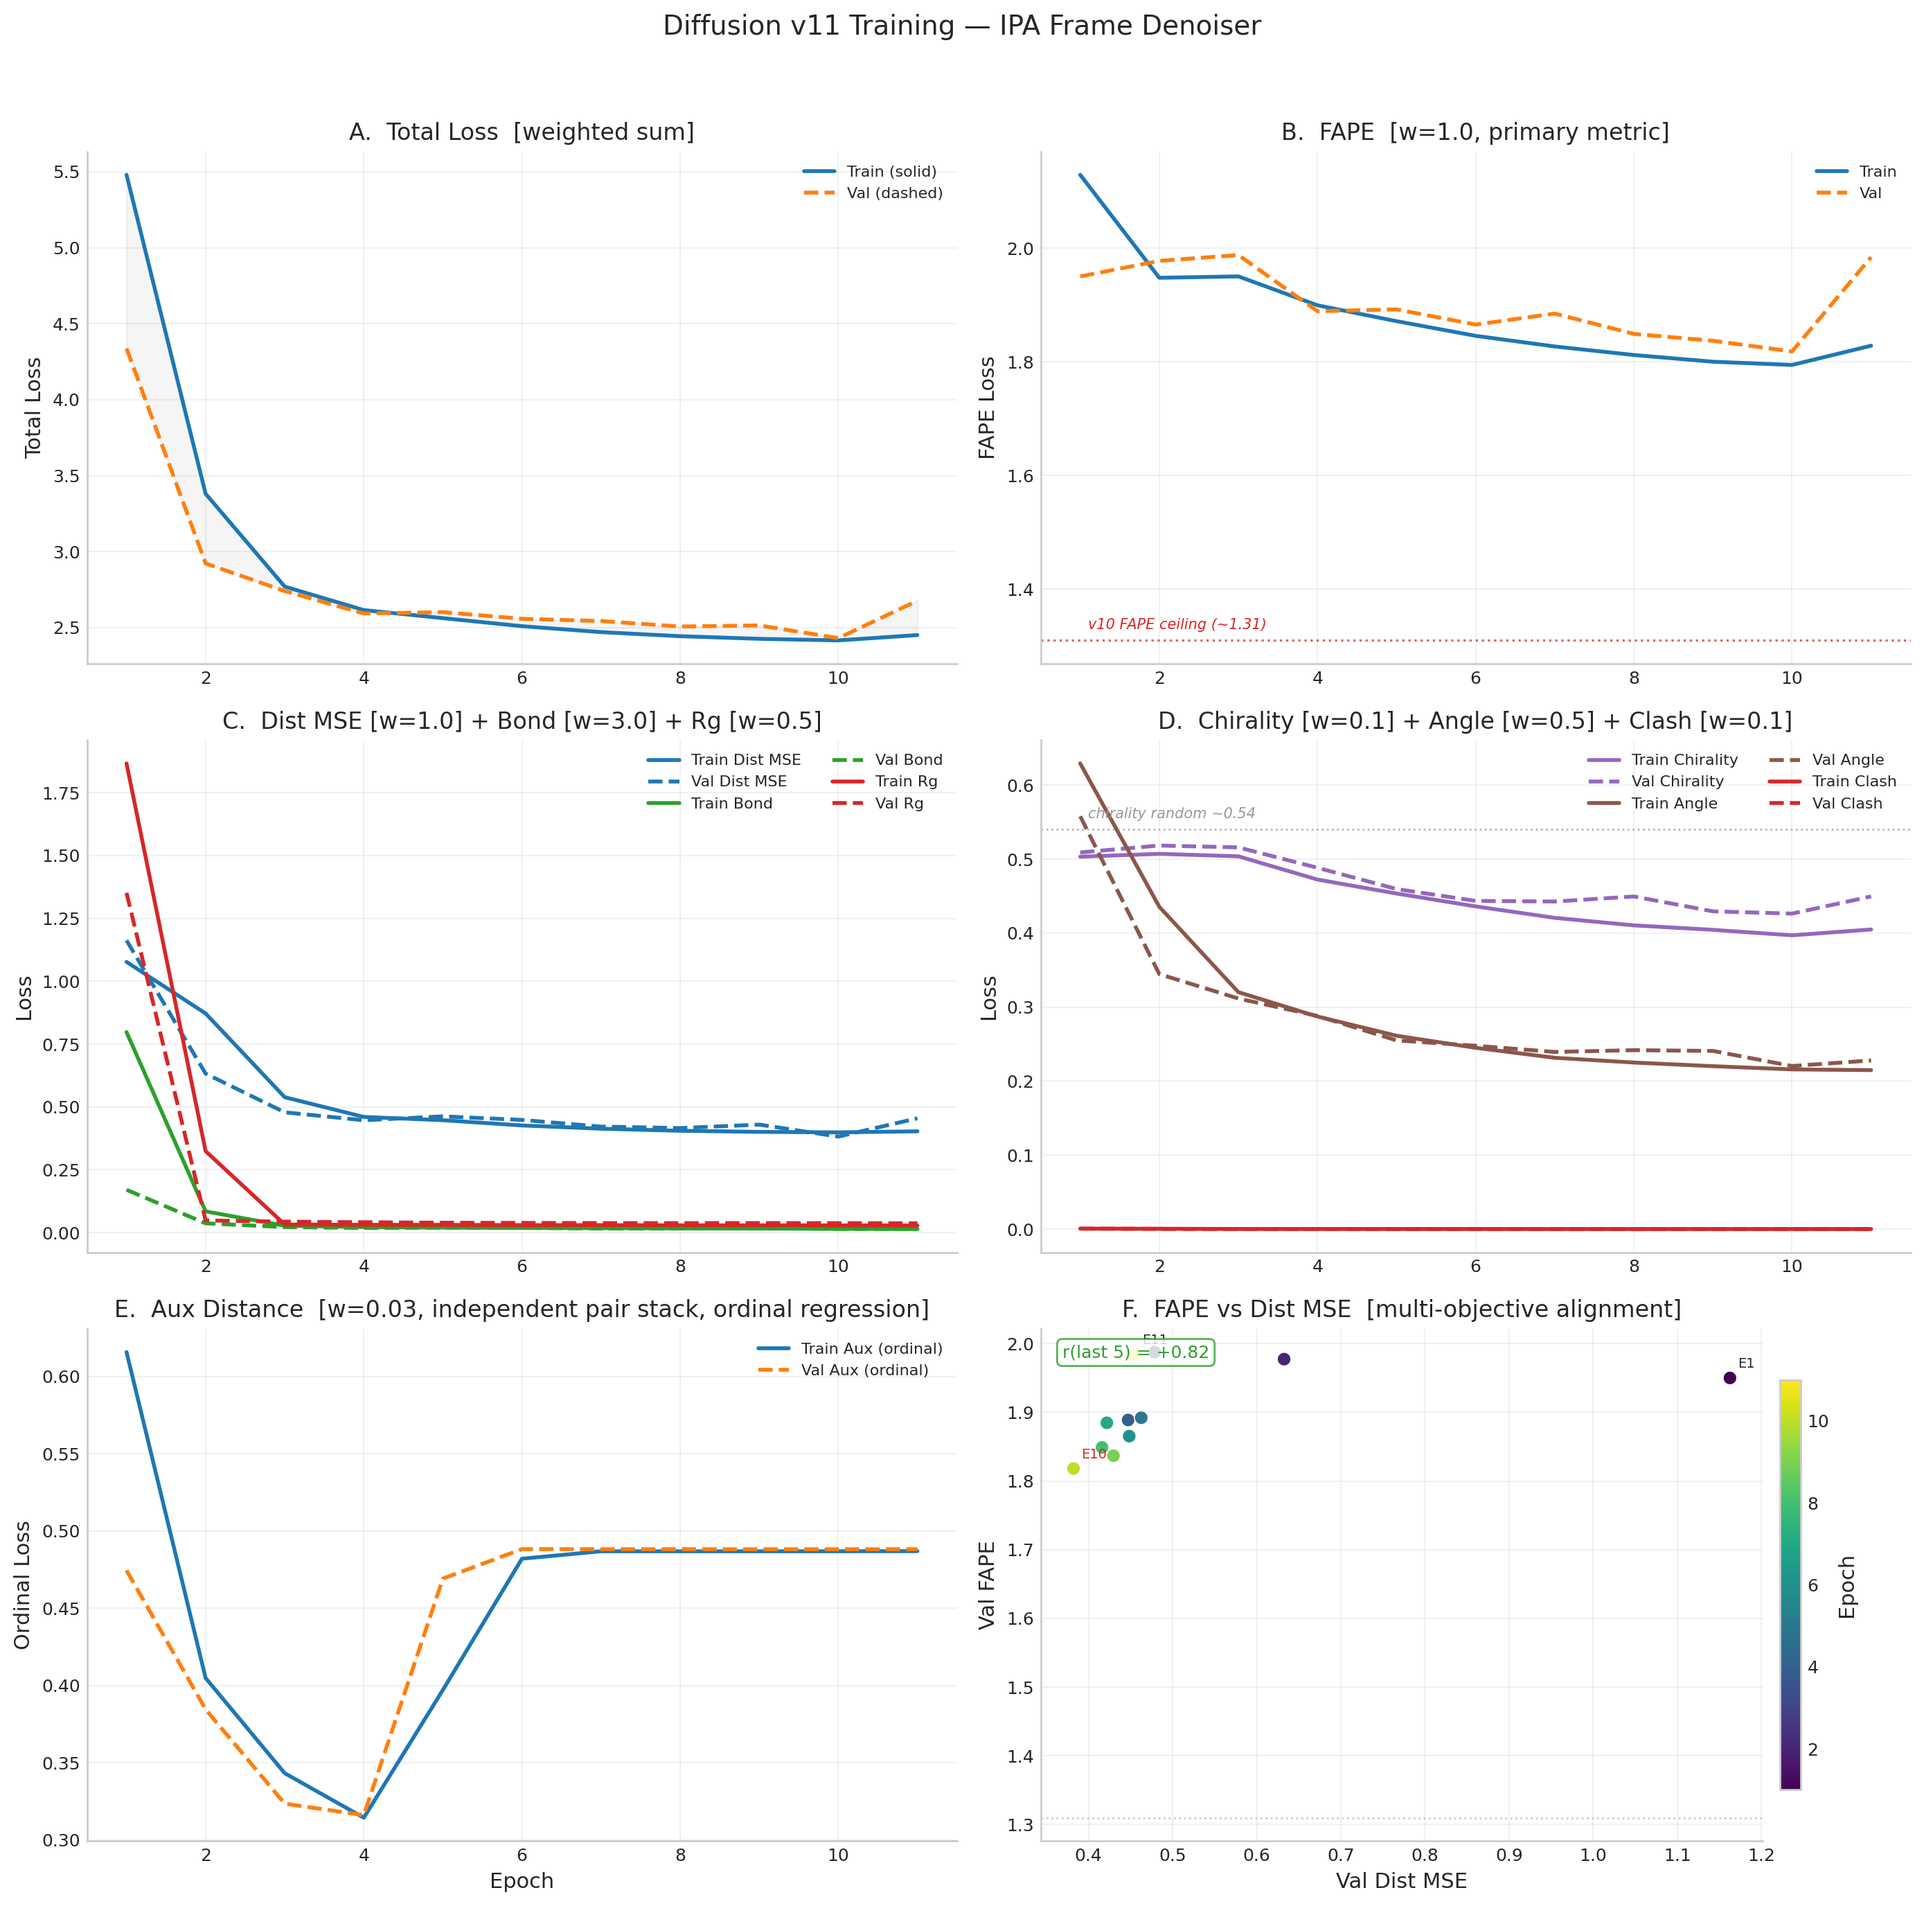
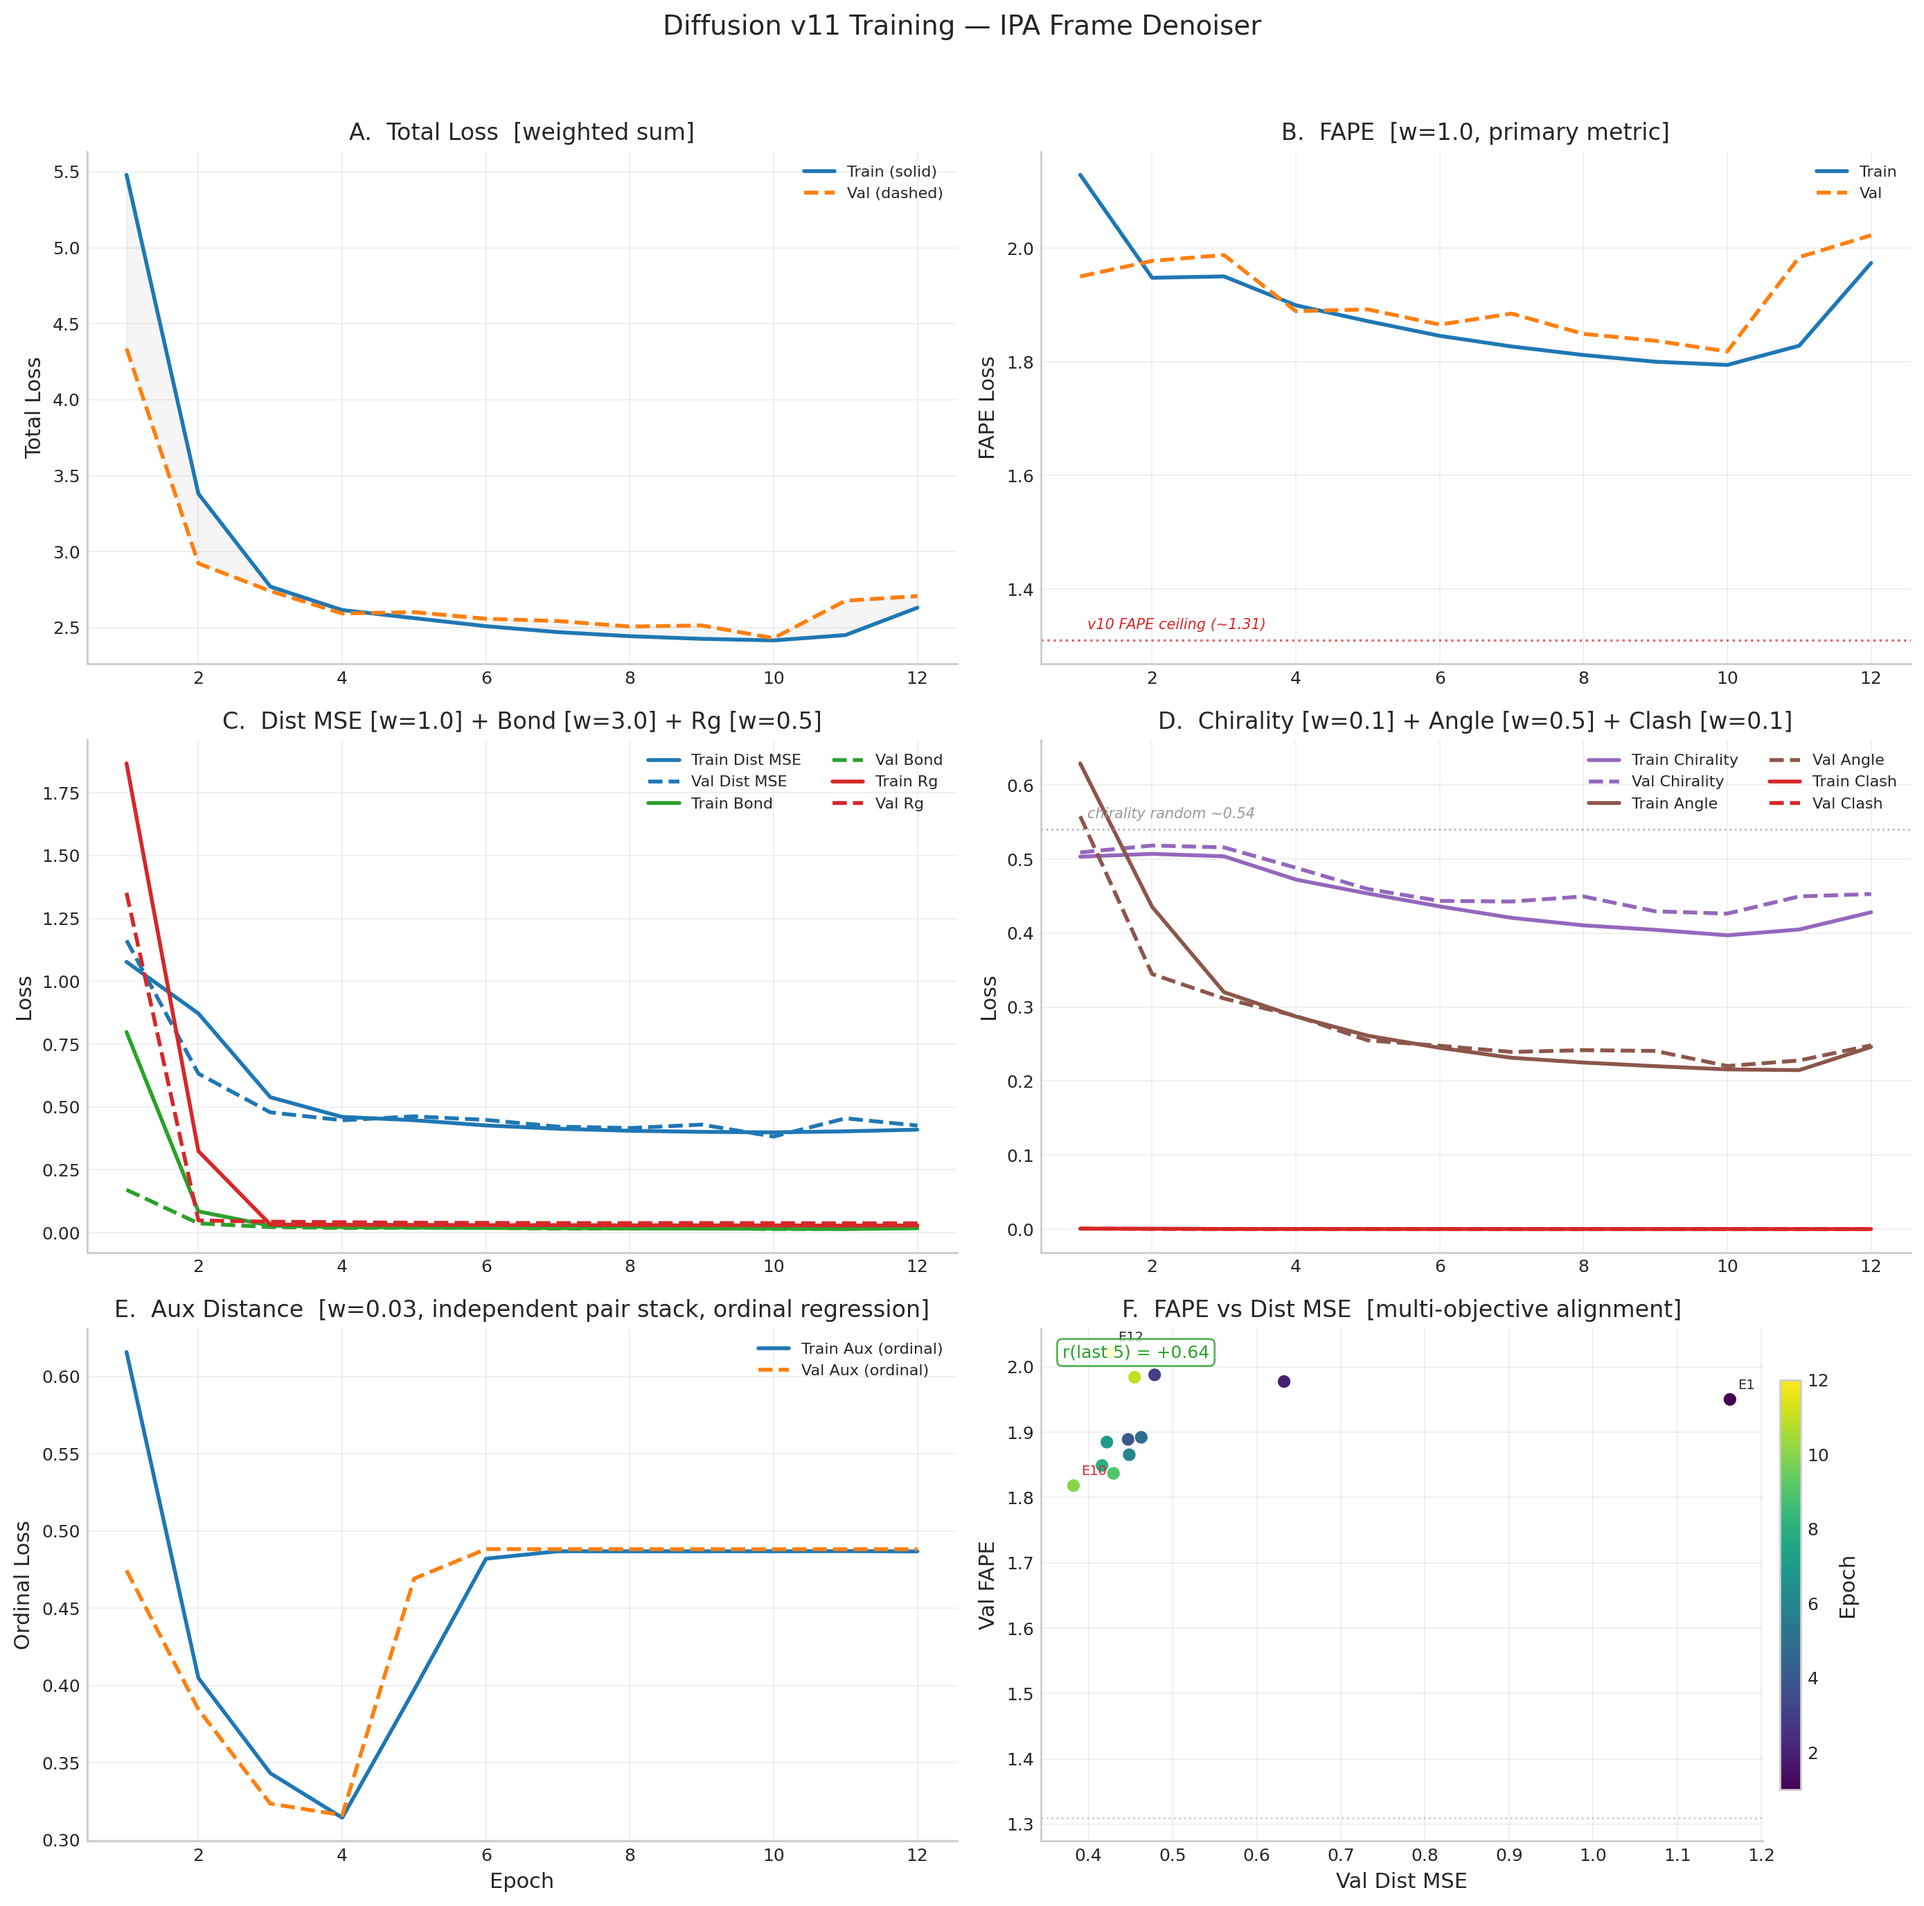
v11 E12: FAPE 2.022 — REGRESSION past E1 baseline, train+val spiking together

diff --git a/index.html b/index.html
@@ -1381,6 +1381,18 @@
                 <td>18.71&Aring;</td>
                 <td><span class="tag tag-pat">pat 1</span></td>
               </tr>
+              <tr style="background: rgba(214, 39, 40, 0.08);">
+                <td>12</td>
+                <td>2.707</td>
+                <td>2.022</td>
+                <td>0.426</td>
+                <td>0.019</td>
+                <td>0.037</td>
+                <td>0.488</td>
+                <td>&mdash;</td>
+                <td>&mdash;</td>
+                <td><span class="tag tag-pat">pat 2</span></td>
+              </tr>
               <!-- New epochs will be added here by monitoring -->
             </tbody>
           </table>
@@ -1477,34 +1489,40 @@
         </div>
 
         <!-- Status / Live interpretation -->
-        <div class="training-pending-note" id="v9-run2-status">
-          <strong>v11 Epoch 11 &mdash; Val Loss Spike</strong>
+        <div class="training-pending-note" id="v9-run2-status" style="border-left: 3px solid #d62728;">
+          <strong style="color: #d62728;">v11 Epoch 12 &mdash; FAPE Regression: All Gains Lost</strong>
           <ul style="margin: 6px 0 6px 18px; font-size: 0.95em;">
-            <li><strong>val FAPE: 1.818 &rarr; 1.984</strong> &mdash; spiked back to E2&ndash;E3 levels. Worst since E3.
-                Train FAPE only slightly worse (1.794 &rarr; 1.828). Large train-val gap opened.</li>
-            <li><strong>val dist_mse: 0.382 &rarr; 0.455</strong> &mdash; also regressed (19% worse).</li>
-            <li><strong>val total: 2.431 &rarr; 2.677</strong> &mdash; jumped 10%. Biggest single-epoch regression so far.</li>
-            <li><strong>val aux: 0.488</strong> &mdash; stable as always (independent pair stack unaffected).</li>
-            <li><strong>DDIM: TM = 0.081, RMSD = 18.71&Aring;</strong> &mdash; worst yet. Continuing decline.</li>
-            <li><strong>Patience: 1/15</strong> &mdash; not a new best.</li>
+            <li><strong>val FAPE: 1.818 (E10) &rarr; 1.984 (E11) &rarr; 2.022 (E12)</strong> &mdash; <em>above E1 baseline</em>
+                (1.950). The model has regressed past its starting point. All FAPE improvements from E4&ndash;E10 are gone.</li>
+            <li><strong>TRAIN FAPE: 1.794 (E10) &rarr; 1.828 (E11) &rarr; 1.974 (E12)</strong> &mdash; train also spiked.
+                This is NOT overfitting &mdash; the model is regressing on both train and val.</li>
+            <li><strong>Train total: 2.416 &rarr; 2.451 &rarr; 2.631</strong> &mdash; train loss jumped 9% in one epoch.
+                Something destabilized the training dynamics.</li>
+            <li><strong>val aux: 0.488</strong> &mdash; aux is perfectly stable (independent pair stack unaffected).</li>
+            <li><strong>Patience: 2/15</strong> &mdash; two consecutive non-best epochs.</li>
           </ul>
-          <strong>Interpretation:</strong>
+          <strong>4-Hour Analysis &mdash; Regression Diagnosis:</strong>
           <p style="font-size: 0.92em; line-height: 1.55; margin: 6px 0;">
-            This is concerning but not yet a failure signal. Train losses barely moved (2.416 &rarr; 2.451) while val losses
-            jumped significantly (2.431 &rarr; 2.677) &mdash; classic <strong>generalization gap widening</strong>. The model may
-            be starting to overfit to training data. However, E5 also showed a similar val blip (2.584 &rarr; 2.602) before
-            recovering at E6. Val-set noise on 608 proteins can produce single-epoch spikes.
+            <strong>Not a val blip.</strong> Both train and val FAPE spiked together (E11&ndash;E12). This rules out
+            overfitting and val-set noise. The model&rsquo;s frame predictions are actively getting worse.
             <br><br>
-            <strong>Key question for E12&ndash;E13:</strong> Does val FAPE recover to the E10 level (~1.82)? If yes, this was
-            a noisy outlier. If val FAPE stays above 1.9 for 2+ more epochs, the model is overfitting and we may need to
-            reduce LR or add dropout. The DDIM decline to 0.081 is now a 7-epoch streak of worsening (0.128 &rarr; 0.081).
+            <strong>Likely causes:</strong>
+            (1) <em>Self-conditioning instability</em> &mdash; frame-aware self-conditioning feeds predicted frames back as
+            input. If frame quality degrades slightly, self-conditioning amplifies the error (positive feedback loop).
+            (2) <em>Frame update accumulation</em> &mdash; 6 IPA layers compose small quaternion updates. A slight perturbation
+            in early layers can compound through the stack.
+            (3) <em>LR still too high</em> at 4.7e-5 (96% of peak). Cosine decay has barely started.
             <br><br>
-            <strong>Not canceling yet</strong> &mdash; patience at 1/15, train losses still at their best, and single-epoch
-            val spikes are common. But this epoch requires close monitoring of E12.
+            <strong>Critical:</strong> If FAPE doesn&rsquo;t recover below 1.9 by E14, this may indicate a fundamental
+            instability in the IPA frame update mechanism. The DDIM decline from 0.128 to ~0.08 over 8 epochs now makes more
+            sense &mdash; the model was already losing frame coherence before the loss metrics showed it.
+            <br><br>
+            <strong>Status: Continuing for now</strong> (patience 2/15, could recover). Will recommend intervention at E15
+            if FAPE remains above 1.9.
           </p>
         </div>
         <div style="color: var(--text-secondary); font-size: 0.85em; margin-top: 8px;" id="v9-last-updated">
-          Last updated: 2026-03-09 13:45 UTC &mdash; E11 complete, val spike under monitoring
+          Last updated: 2026-03-09 14:05 UTC &mdash; E12 complete, FAPE regression active
         </div>
 
         <!-- v10 Historical Results (collapsed) -->
